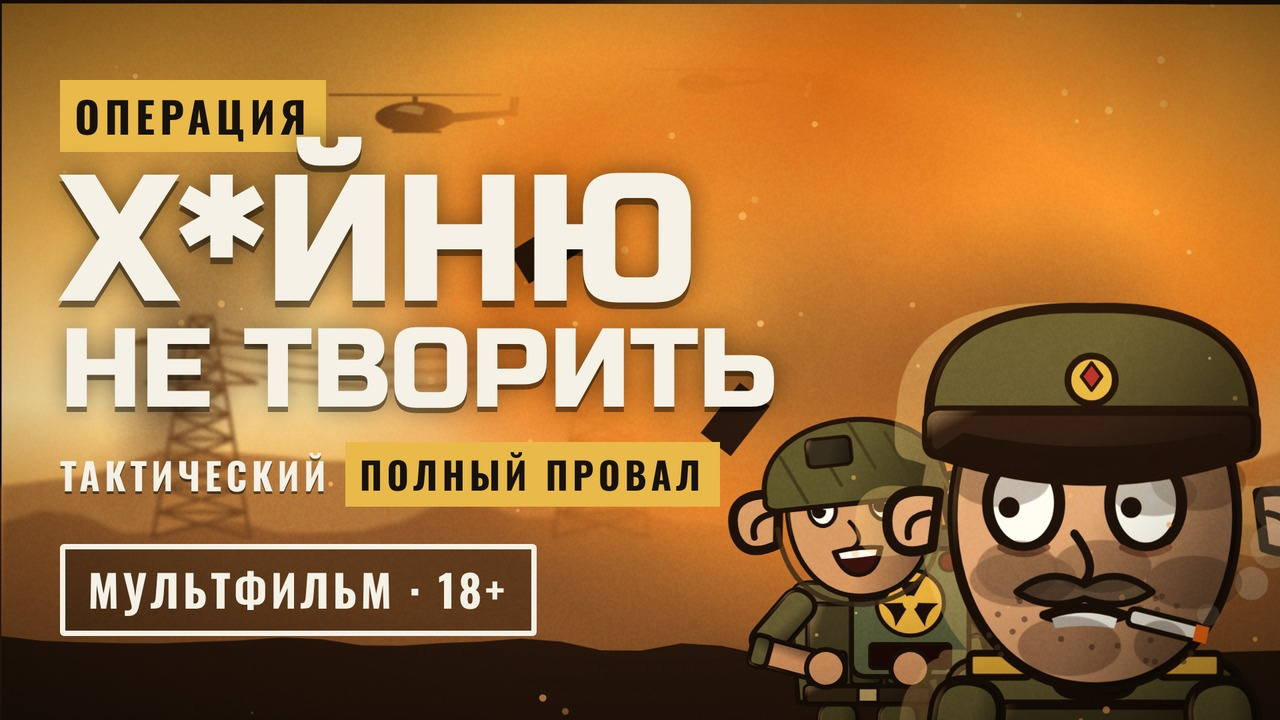
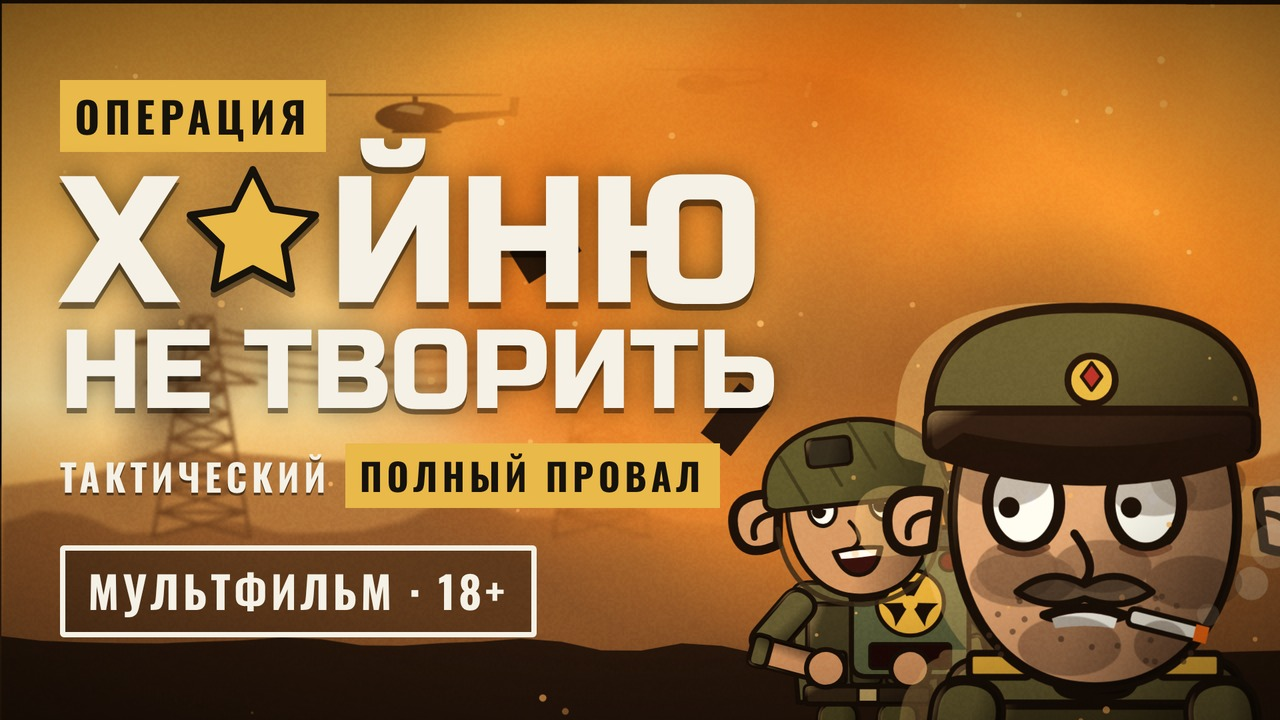
Обложка: жёлтая армейская звезда вместо буквы в логотипе
Claude-Session: https://claude.ai/code/session_019VNSf3Tp2qXJFq8MNdp5tw

diff --git a/cartoon/youtube/thumb.html b/cartoon/youtube/thumb.html
@@ -25,7 +25,7 @@ const sch = C.make("schmidt", mid, { x: 1640, y: 1700, sc: 2.55, seed: 1 });
 Object.assign(sch.st, { turn: -0.25, px: -0.9, eyeWide: 1.3, brow: 1, smile: -0.7, mouthOpen: 0.35, twitch: 0, soot: 0.5, tear: 0 });
 sch.wrap.style.filter = "drop-shadow(-16px 0 0 rgba(255,214,140,0.35))";
 const fx = E.fxLayer("fx", 0); E.fx("fx", 0, "motes", { n: 60, color: "255,190,110", a: 0.8, size: 4 });
-const word = CENS ? "Х*ЙНЮ" : "ХУЙНЮ";
+const word = CENS ? `Х<svg viewBox="-50 -50 100 100" style="width:0.78em;height:0.78em;vertical-align:-0.02em;margin:0 0.03em;filter:drop-shadow(0 8px 0 rgba(0,0,0,.45))"><path d="M0,-47 L13.8,-19 L44.7,-14.5 L22.4,7.3 L27.6,38 L0,23.5 L-27.6,38 L-22.4,7.3 L-44.7,-14.5 L-13.8,-19Z" fill="#E9B949" stroke="#16120C" stroke-width="5" stroke-linejoin="round"/></svg>ЙНЮ` : "ХУЙНЮ";
 H.el(`<div class="tag y" style="font-size:64px;display:inline-block">ОПЕРАЦИЯ</div>
  <div class="logo" style="font-size:270px;margin-top:20px;text-shadow:0 10px 0 rgba(0,0,0,.45),0 0 40px rgba(0,0,0,.5)">${word}</div>
  <div class="logo" style="font-size:168px;margin-top:4px;text-shadow:0 8px 0 rgba(0,0,0,.45),0 0 40px rgba(0,0,0,.5)">НЕ ТВОРИТЬ</div>
